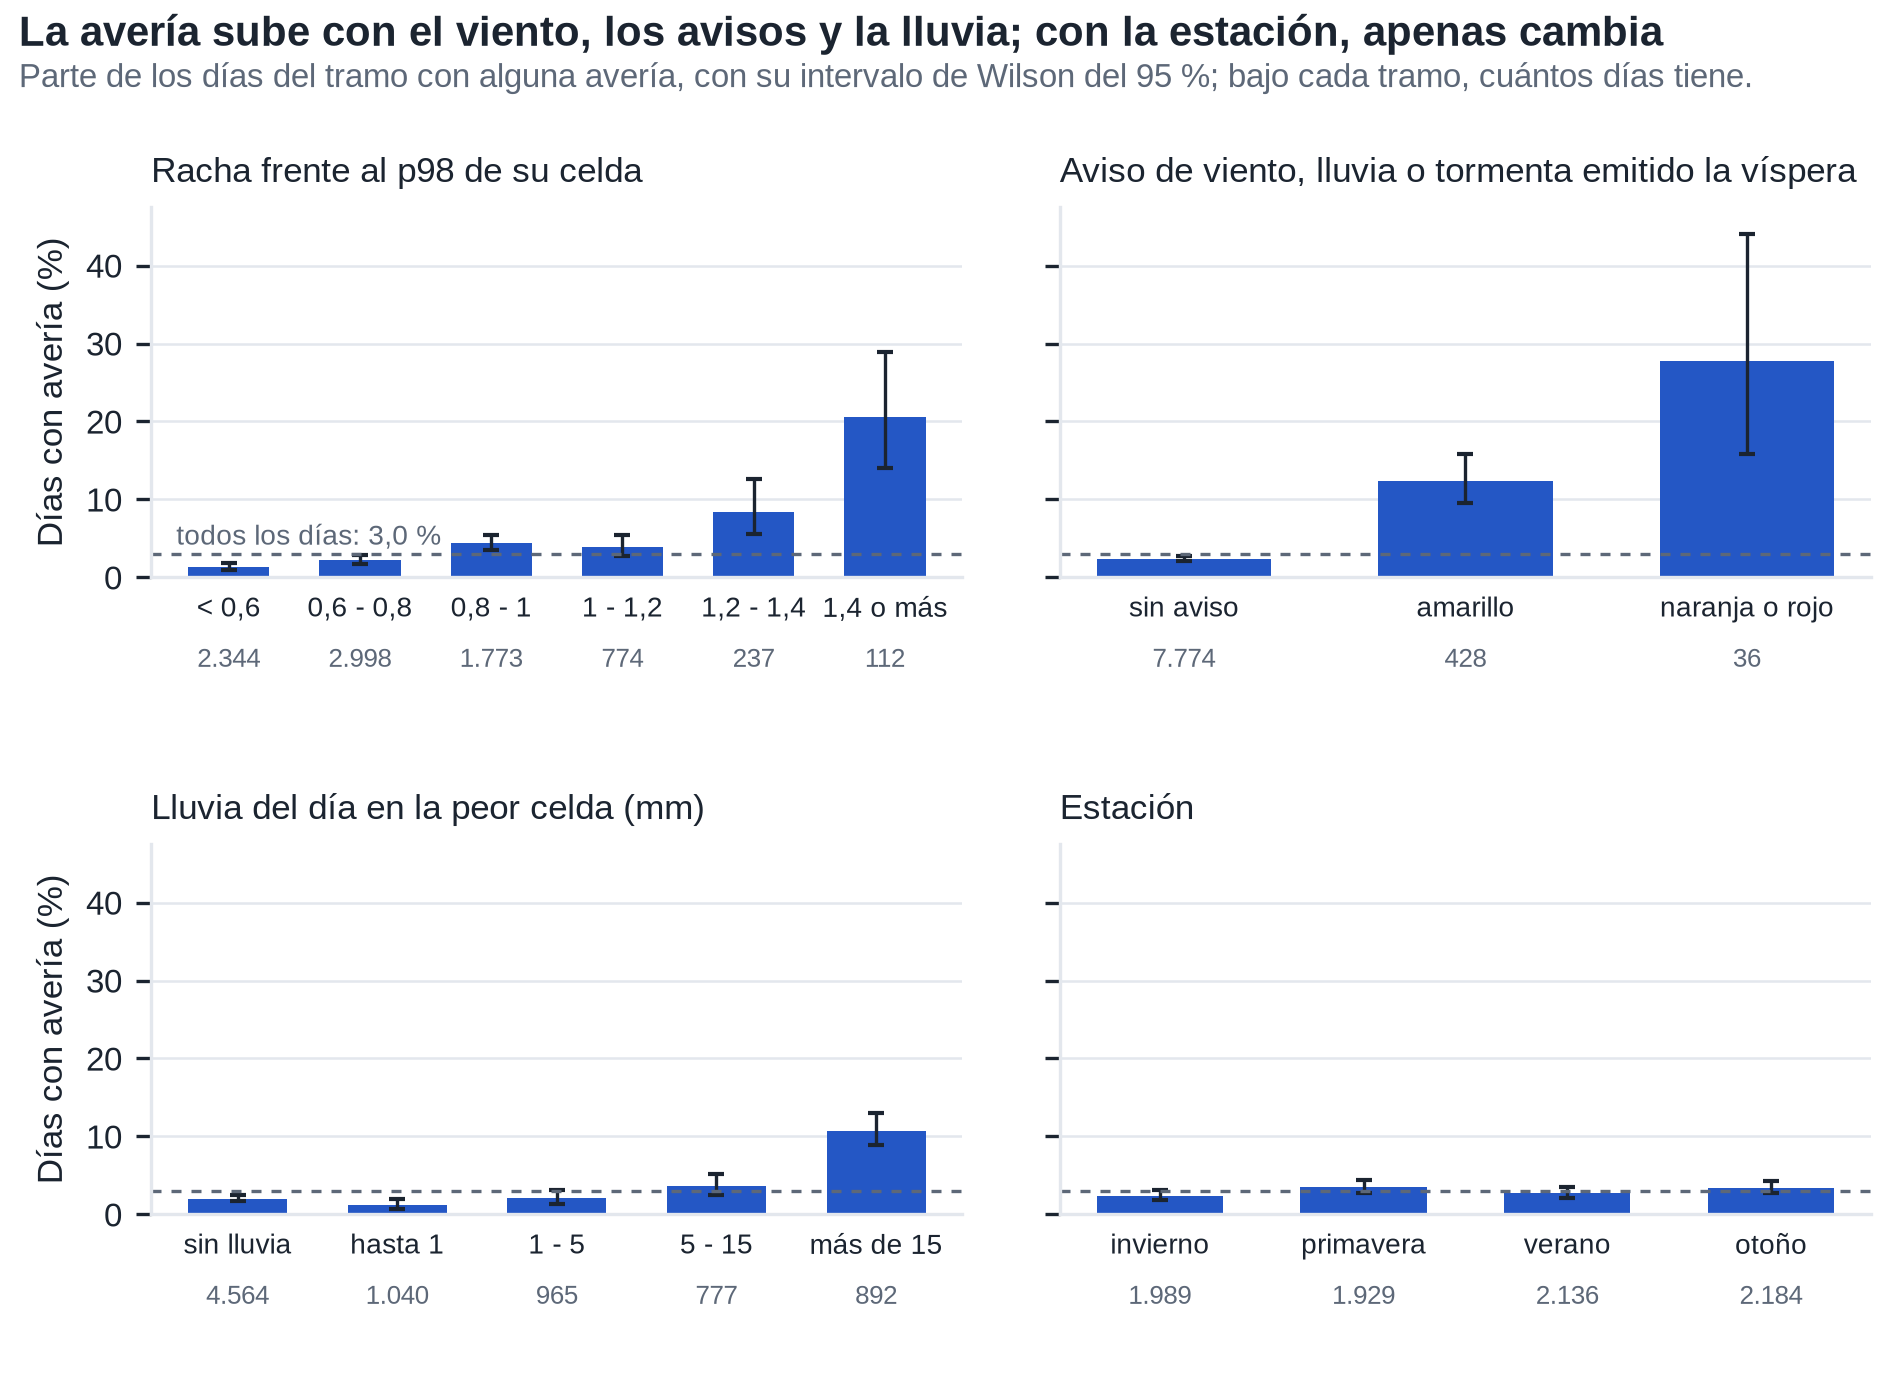
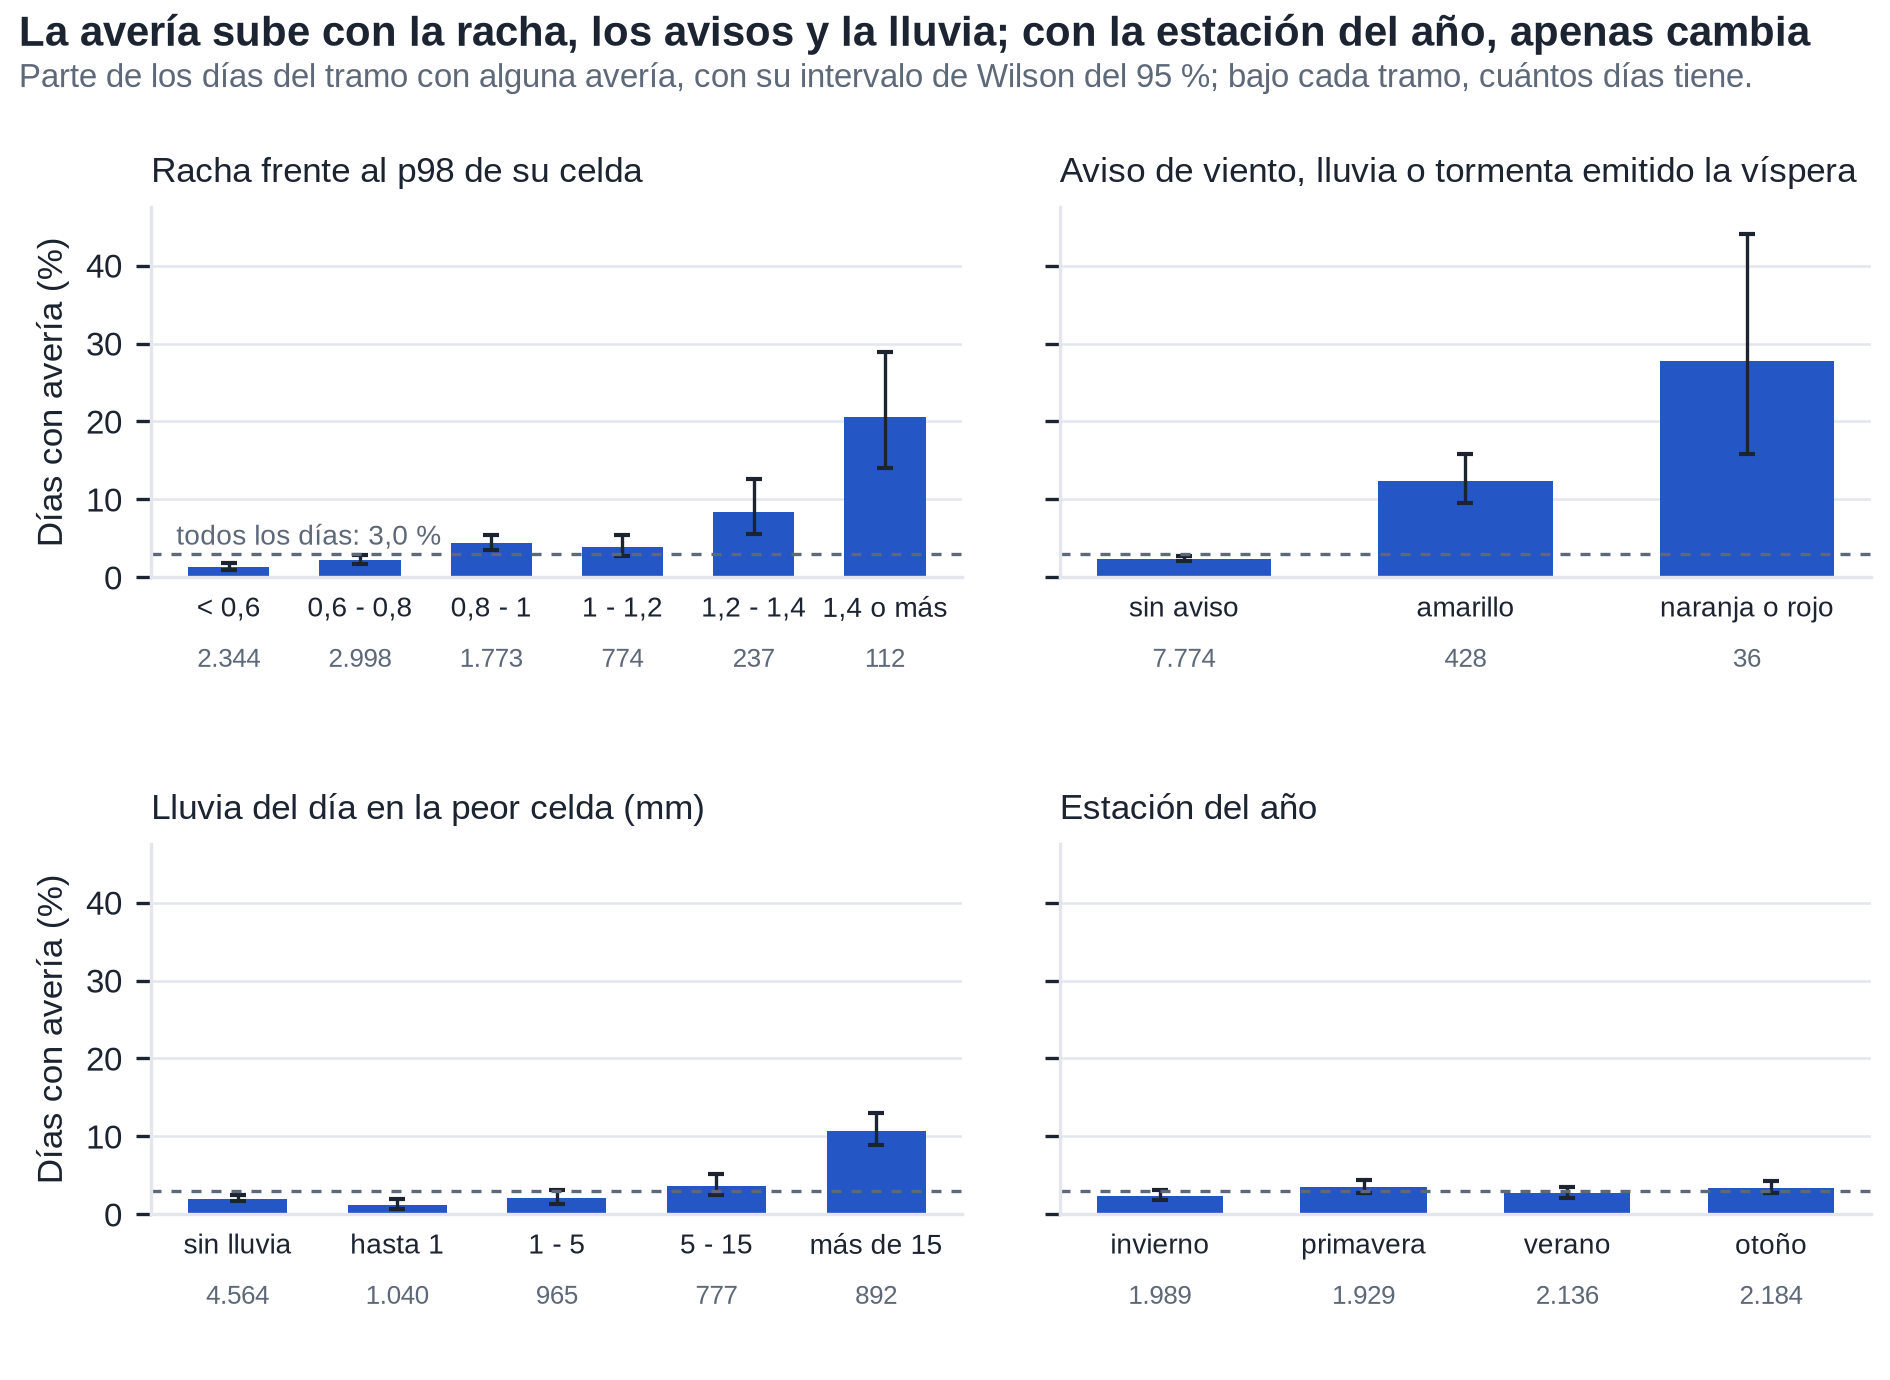
Grafico de tramos del perfil con el titulo en el orden de sus paneles y la estacion del ano; probabilidades del 28.01.2026 por red y reparto de Amdahl del 81,5 %

Changed region(s): [[0.2185, 0.0, 0.9677, 0.0312], [0.6243, 0.5609, 0.6868, 0.592]]

diff --git a/experimentos/perfil_dia/correr_perfil.py b/experimentos/perfil_dia/correr_perfil.py
@@ -139,9 +139,9 @@ def main(argv) -> int:
               ("aviso_vlt_cat", "Aviso de viento, lluvia o tormenta emitido la víspera",
                ["sin aviso", "amarillo", "naranja o rojo"]),
               ("tramo_lluvia", "Lluvia del día en la peor celda (mm)", None),
-              ("estacion_cat", "Estación", ["invierno", "primavera", "verano", "otoño"])]
+              ("estacion_cat", "Estación del año", ["invierno", "primavera", "verano", "otoño"])]
     rows = rate_panels(df, "y_dia", panels, base, os.path.join(out, "perfil_tramos.png"),
-                       "La avería sube con el viento, los avisos y la lluvia; con la estación, apenas cambia",
+                       "La avería sube con la racha, los avisos y la lluvia; con la estación del año, apenas cambia",
                        "Parte de los días del tramo con alguna avería, con su intervalo de Wilson del 95 %; bajo "
                        "cada tramo, cuántos días tiene.")
     pd.DataFrame(rows).to_csv(os.path.join(out, "tramos.csv"), index=False)

diff --git a/docs/cifras.md b/docs/cifras.md
@@ -62,7 +62,7 @@ Una página con los números que sostienen el trabajo, de dónde sale cada uno (
 | Consultas con Trino (17.10.2026) | Recontar por conjunto los 61,8 millones de filas de `dataset_train`, 7,5 s la primera vez y 4,8 s en caliente (mediana de cinco), y 1,1 s con la tabla compactada; enero de 2025 de la Distribuidora 1, 5,3 y 1,1 s (0,8 compactada); la racha máxima de cada celda en `meteo_celda_hora` (3,6 millones de filas), 4,5 y 0,8 s; el riesgo de la última tarde, 2,1 y 0,5 s. Tiempo del servidor | [experimentos/consultas_trino](../experimentos/consultas_trino/salida/planes_resumen.csv) |
 | Planes de Trino (17.10.2026) | El filtro por `fecha_mes` no cambia lo que se lee (la poda por mínimos y máximos de `hora` ya descartaba los demás meses); ANALYZE pasa la estimación del filtro de la Distribuidora 1 de 861.748 a 319.166 filas (reales 546.066) y en el join de tres tablas cambia de lado la tabla hash: 3,1 s en caliente en lugar de 2,3 y 61 MB de memoria en lugar de 38; repartir por hash los dos lados en lugar de replicar los pequeños, 2,7 s | [experimentos/consultas_trino](../experimentos/consultas_trino/salida/resumen.txt), figura de los dos planes en `salida/planes_join.png` |
 | Compactación de `dataset_train` (17.10.2026) | De 2.032 ficheros y 6,8 GB a 70 ficheros y 3,8 GB, partición a partición con un ejecutor de 6 GB, en 70 min y sin fallos; el orden Z de 2025 por distribuidora y CT, 15 min más; el mes de la Distribuidora 3 pasa a leer un fichero de cuatro (0,4 MB en lugar de 5,3) | `experimentos/consultas_trino/salida/compactacion_resumen.json` y `ficheros_particion.csv` |
-| Escalado de la lectura de Gold (17.10.2026) | Medias y desviaciones de 30 features por CT sobre `dataset_train` compactada: 301, 181, 115 y 87 s con 1, 2, 4 y 8 núcleos (speed-up de 3,4 con ocho); con la ley de Amdahl ajustada a las cuatro medidas se reparte un 82 % del trabajo y el techo en esta máquina está en unas 5,4 veces. El recuento por mes, de 5,6 a 2,5 s, lo domina lo fijo (planificar, abrir los 106 ficheros y juntar) | `experimentos/consultas_trino/salida/escalado.csv`, `_runlogs/escalado_20261017_0544.log` |
+| Escalado de la lectura de Gold (17.10.2026) | Medias y desviaciones de 30 features por CT sobre `dataset_train` compactada: 301, 181, 115 y 87 s con 1, 2, 4 y 8 núcleos (speed-up de 3,4 con ocho); con la ley de Amdahl ajustada a las cuatro medidas se reparte un 81,5 % del trabajo y el techo en esta máquina está en unas 5,4 veces. El recuento por mes, de 5,6 a 2,5 s, lo domina lo fijo (planificar, abrir los 106 ficheros y juntar) | `experimentos/consultas_trino/salida/escalado.csv`, `_runlogs/escalado_20261017_0544.log` |
 | Tamaño del lago (17.10.2026) | 108,8 GiB en MinIO: Landing 12,6, Bronze 28,8, Silver 52,4 (51,6 de `f_tag_interval_value`, con los ficheros de sus reescrituras hasta el VACUUM) y Gold 14,9; la tabla grande de TedisNet, 28,1 GiB en Bronze frente a unos 220 GB en SQL Server | `_runlogs/planes_trino_20261017_0348/lanzar.log` (du por zona) |
 | Lo que no hace | No dice qué CT se quedará sin luz; no ve el estado de los equipos (en los días bajos cae una de cada seis horas-cliente de 2024 - 2026, una de cada cuatro en 2024 - 2025); con unas 35 incidencias al año entre las dos redes grandes (unas 17 por distribuidora), la cobertura de un año se mueve entre el 30 % y el 70 % | `negocio.html`, [caso-de-negocio.md](caso-de-negocio.md) 2 y 6 |
 

diff --git a/docs/caso-de-negocio.md b/docs/caso-de-negocio.md
@@ -25,7 +25,7 @@ Con la previsión real de la víspera, del 20.01.2024 al 02.08.2026 (la Distribu
 Solo con 2024 y 2025 (1.422 días), que es lo que había antes de incorporar 2026: bajo 1.047 días y 1,7 % con avería; medio 198 y 4,5 %; alto 86 y 9,3 %; muy alto 91 y 17,6 %; los días en alerta eran el 12 % y llevaban el 57 % de las horas-cliente (el 73 % sin recortar).
 
 - Un día muy alto tiene avería 9 veces más a menudo que un día bajo (17,9 % frente a 1,9 %; con 2024 - 2025 solo, 10 veces: 17,6 % frente a 1,7 %). Por separado se mantiene: en la Distribuidora 1, 22,2 % frente a 1,5 % en 2024 - 2025 (45 días muy altos, 10 con avería); en la Distribuidora 2, 13,0 % frente a 1,9 % (46 días, 6 con avería).
-- Los días en alerta (alto o muy alto) son el 12,5 % de los días y concentran el 72 % de las horas-cliente perdidas por causas locales (el 70 % sin recortar). El temporal del 28.01.2026 pesa mucho en esa cifra: las dos distribuidoras estaban en muy alto desde la tarde anterior (21 % y 18 % de probabilidad, 6 y 4 veces su tasa base de 2022 - 2025), tuvieron 20 incidencias, 73.485 clientes afectados y 31.795 horas-cliente, el 49 % de todas las de 2024 - 2026. Sin ese día, los días en alerta llevan el 46 % de las horas-cliente (53 % sin recortar).
+- Los días en alerta (alto o muy alto) son el 12,5 % de los días y concentran el 72 % de las horas-cliente perdidas por causas locales (el 70 % sin recortar). El temporal del 28.01.2026 pesa mucho en esa cifra: las dos distribuidoras estaban en muy alto desde la tarde anterior (la Distribuidora 2 con un 21 % de probabilidad y la 1 con un 18 %, 6 y 4 veces su tasa base de 2022 - 2025), tuvieron 20 incidencias, 73.485 clientes afectados y 31.795 horas-cliente, el 49 % de todas las de 2024 - 2026. Sin ese día, los días en alerta llevan el 46 % de las horas-cliente (53 % sin recortar).
 - De los 3 peores días de cada distribuidora y año de 2024 - 2026 (18 días que suman el 77 % de las horas-cliente), 9 estaban en alerta la víspera; de los 5 peores (30 días, el 87 %), 15. Con el reanálisis, en 2022 - 2026: 13 de 30 y 19 de 50. Mirando los 10 peores días de 2024 - 2026 sin separar por distribuidora ni año (el 68 % de las horas-cliente), 7 estaban en alerta; en 2024 - 2025, 8 de 10.
 - Dentro del día, en las 51 incidencias de los días de alerta de 2024 - 2026: el 84 % empezaron dentro de la franja horaria que daba el sistema, y la línea que falló estaba entre las 3 primeras del ranking de su distribuidora el 25 % de las veces (azar 9 %, con unas 35 líneas por distribuidora) y entre las 5 primeras el 41 % (azar 14 %). El sistema acierta el día y la franja mucho mejor que la línea.
 - El 71 % de los días son bajos y en ellos cae una de cada seis horas-cliente (una de cada cuatro en 2024 - 2025): son las averías de equipos y de causa desconocida que el tiempo no anuncia.
